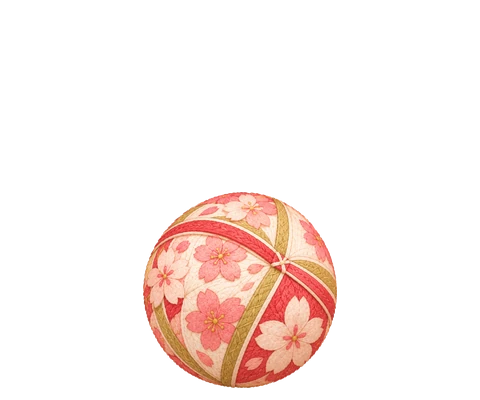
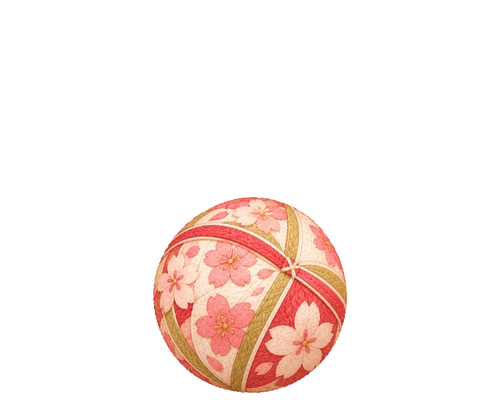
Nudge the temaki-ball art down 5px and right 10px
Generalized OBJECT_SHIFT to take an (dx, dy) tuple, not just sideways dx,
so an item can be nudged both ways at once.

Claude-Session: https://claude.ai/code/session_01E7v64VRdhvH8oCgXhRmXMK

Changed region(s): [[0.2812, 0.48, 0.75, 0.99]]

diff --git a/tools/process_art.py b/tools/process_art.py
@@ -85,7 +85,7 @@ OBJECT_SIZE = {'ball': 0.8, 'yarn': 0.8, 'takoyaki': 0.7, 'onigiri': 1.2, 'taiya
 # mochi: sized up so its silhouette is convincingly wider than the cat's "head" pose peeking over it
 # (it was barely wider than the cat's own ears before -- compare taiyaki, which already reads right).
 SHADOW_CUT = {'mochi': 0, 'taiyaki': 0, 'taiyaki-xl': 0, 'redpanda': 0.8}   # items whose ground shadow is removed, from this fraction of the height down (see drop_shadow)
-OBJECT_SHIFT = {'ball': -60, 'yarn': -20, 'takoyaki': -28, 'taiyaki': 12}  # canvas px, sideways. Keeps the ball out of the paw's reach (the cat sits to its right)
+OBJECT_SHIFT = {'ball': -60, 'yarn': -20, 'takoyaki': -28, 'taiyaki': 12, 'temaki-ball': (10, 5)}  # canvas px: a plain number is sideways only (+right), or (dx, dy) for both (+down). ball/yarn/takoyaki/taiyaki: keeps the toy out of the paw's reach (the cat sits to its right)
 REF_CAT = 'tapuz'     # items use the same scale as this cat's sitting pose, so sizes carry over
 BODY_BAND = 0.08      # the bottom 8% of a cat's content is where its body rests (see body_centre_x)
 TRIM_ALPHA = 0.1      # alpha below this is ignored when finding the content box
@@ -511,10 +511,12 @@ def process_item(name, path, scale, log):
         f'scale {scale:.4f} -> {round(h * scale)}x{round(w * scale)} px')
     center_bbox = name in CENTER_BBOX or name.startswith(CENTER_BBOX_PREFIXES)
     canvas = compose(rgba, scale, name, center='bbox' if center_bbox else 'body')
-    dx = OBJECT_SHIFT.get(name, 0)
-    if dx:
+    shift = OBJECT_SHIFT.get(name, 0)
+    dx, dy = shift if isinstance(shift, tuple) else (shift, 0)
+    if dx or dy:
         moved = np.zeros_like(canvas)
-        moved[:, max(0, dx):W + min(0, dx)] = canvas[:, max(0, -dx):W - max(0, dx)]
+        moved[max(0, dy):H + min(0, dy), max(0, dx):W + min(0, dx)] = \
+            canvas[max(0, -dy):H - max(0, dy), max(0, -dx):W - max(0, dx)]
         canvas = moved
     outputs = [OBJ_OUT / f'{name}.webp']
     if name not in FRONT_WALLS and name not in FRONT_CURVES:
